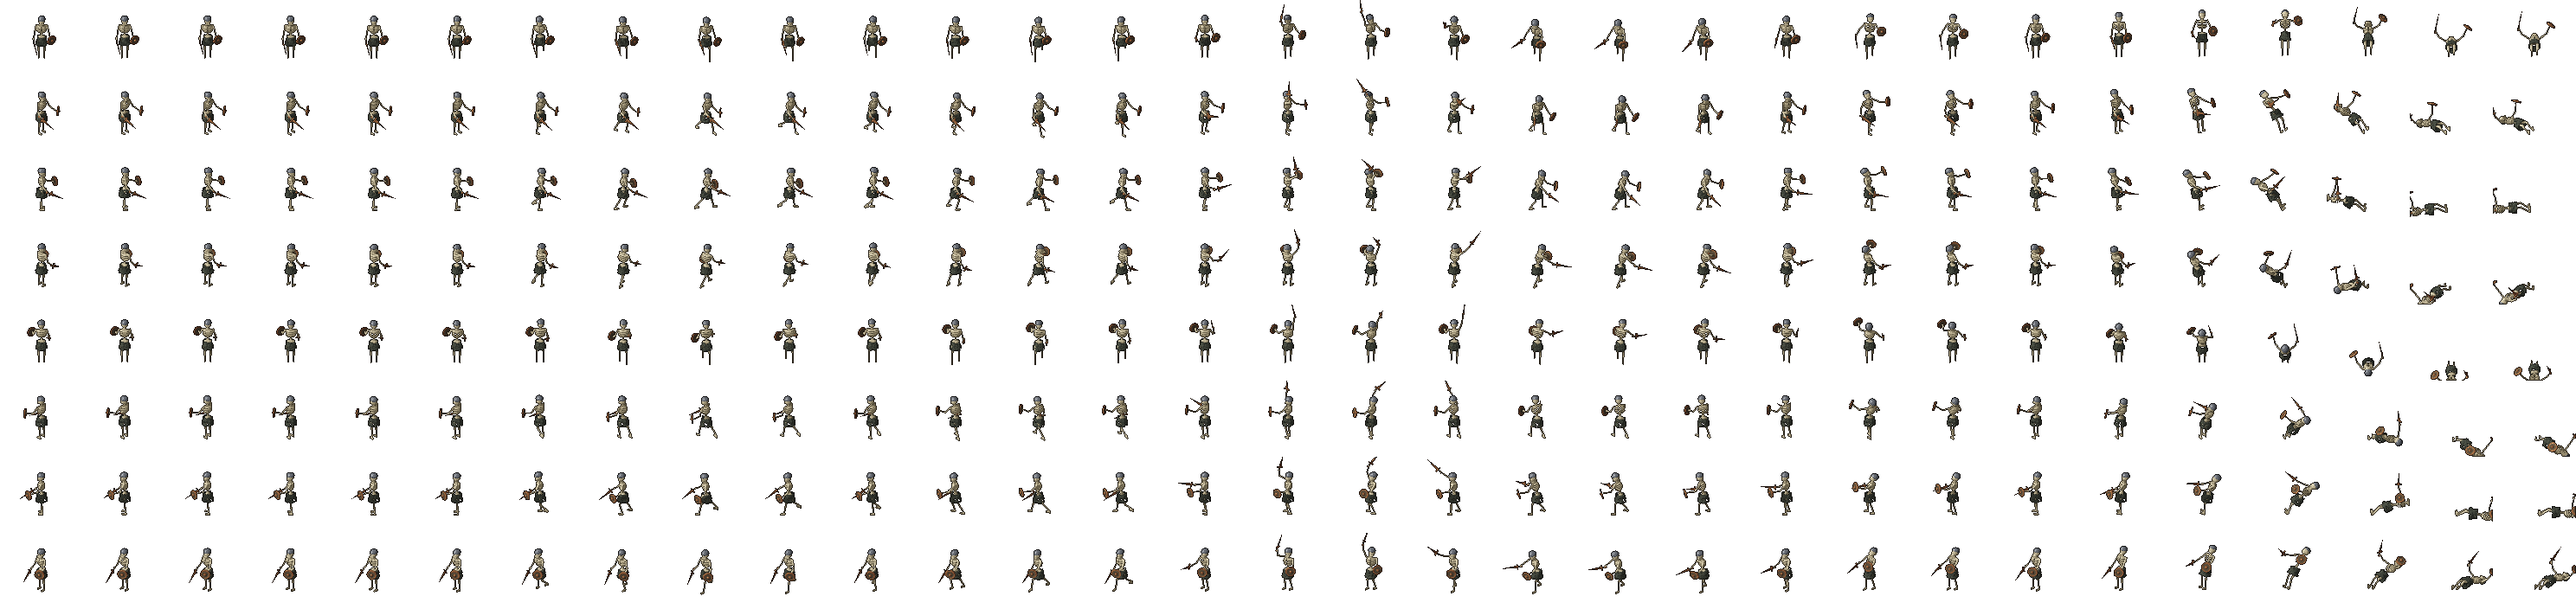
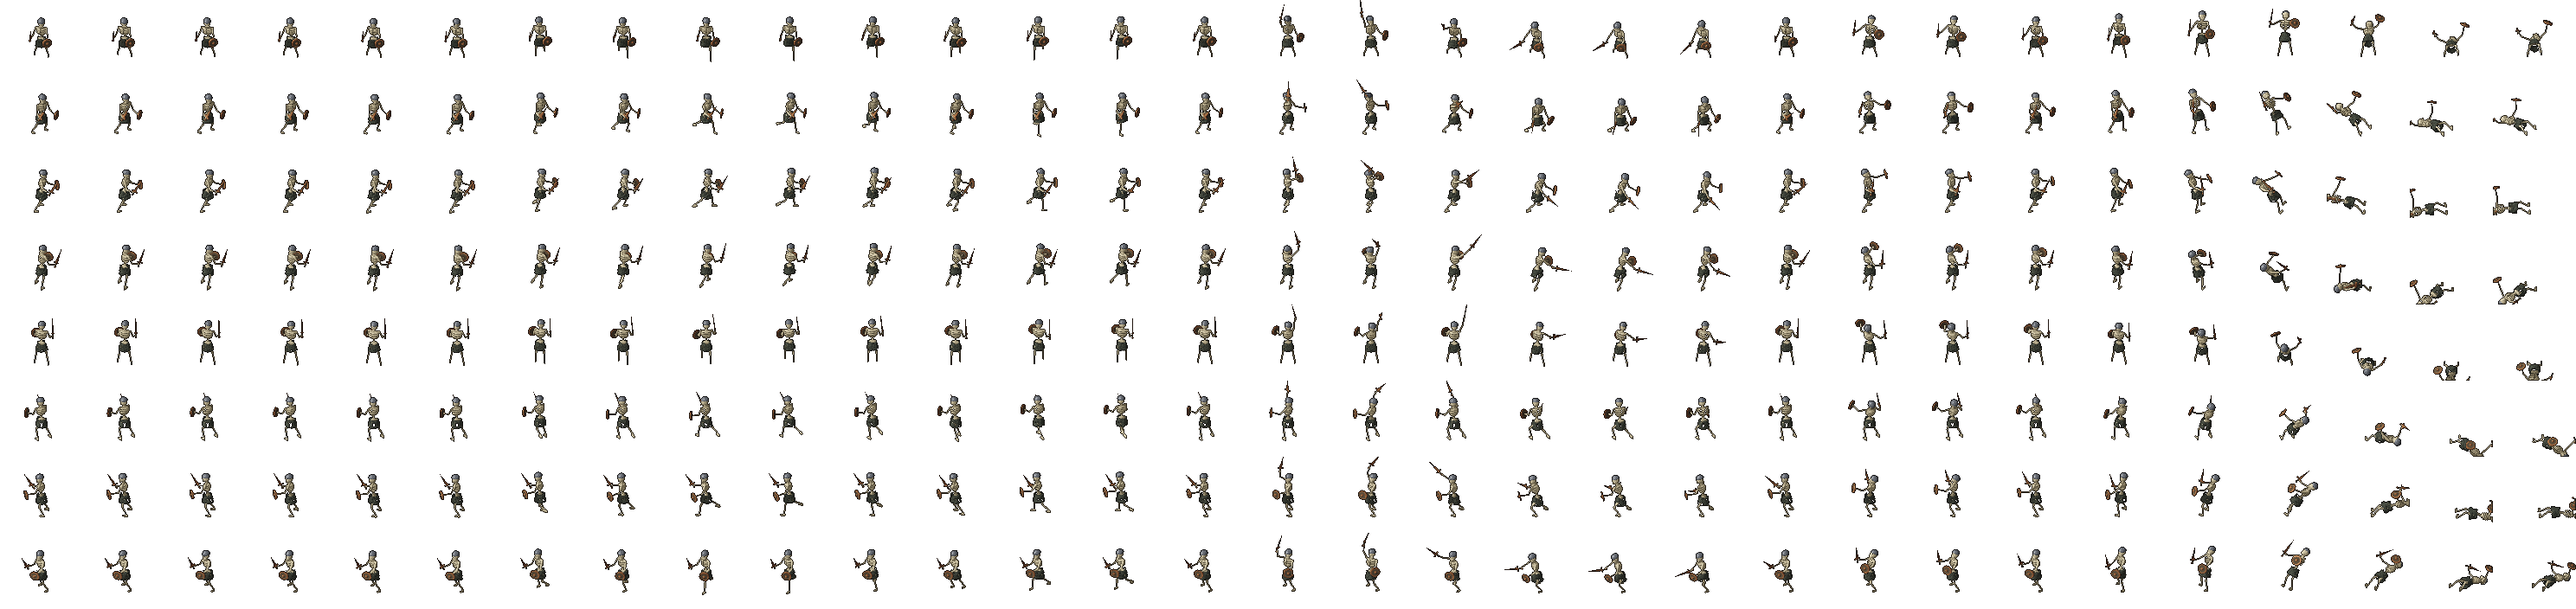
캐릭터 기본 자세를 전투 대기 자세로, 기사 무기를 넓은 외날 기사검으로
- 모든 사람형 동작의 기준 자세: 발을 앞뒤·좌우로 넓게 벌리고 무릎을 굽혀 낮춤, 몸은 비스듬히
- 대기·공격·피격 때 두 발이 모두 땅을 딛도록 무릎 각도 자동 보정
- 검은 위로 비스듬히 겨누고 방패는 몸 앞에 붙임, 공격 시작·끝 프레임을 대기 자세와 연결
- broadsword(): 두꺼운 외날, 비스듬한 칼끝, 홈, 아래로 휜 코등이 (기사·군주)

Claude-Session: https://claude.ai/code/session_01VAPQ8P31TMW6chZELFKhGZ

diff --git a/forgotten-forge/tools/lineage/humanoid.py b/forgotten-forge/tools/lineage/humanoid.py
@@ -25,7 +25,7 @@ class Pose(dict):
         lhip=0.0, rhip=0.0, lknee=4.0, rknee=4.0, lhip_side=0.0, rhip_side=0.0,
         lsh=8.0, rsh=8.0, lab=10.0, rab=10.0, lel=18.0, rel=18.0,
         wpn=70.0, wpn_side=0.0, wpn_roll=0.0, shd=0.0,
-        head=0.0, head_yaw=0.0, cape=0.0, crouch=0.0, glow=0.0, draw=0.0, mouth=0.0,
+        head=0.0, head_yaw=0.0, cape=0.0, crouch=0.0, glow=0.0, draw=0.0, mouth=0.0, plant=0.0,
     )
 
     def __init__(self, **kw):
@@ -59,8 +59,30 @@ class Rig:
             kn = hp + sagittal(a, ab, side) * b['thigh'] * s
             an = kn + sagittal(a - k, ab, side) * b['shin'] * s
             return hp, kn, an
-        self.lhp, self.lkn, self.lan = leg(-1, p.lhip, p.lknee, p.lhip_side)
-        self.rhp, self.rkn, self.ran = leg(1, p.rhip, p.rknee, p.rhip_side)
+        lk, rk = p.lknee, p.rknee
+        if p.plant:
+            # 두 발 모두 땅을 딛도록: 더 길게 뻗은 다리의 무릎을 굽혀 높이를 맞춘다
+            def drop(a, k, ab, side):
+                return leg(side, a, k, ab)[2][2]
+            zl, zr = drop(p.lhip, lk, p.lhip_side, -1), drop(p.rhip, rk, p.rhip_side, 1)
+            if abs(zl - zr) > 0.2:
+                if zl < zr:   # 왼다리가 더 아래로 뻗음 → 왼 무릎을 더 굽힘
+                    a_, ab_, sd, k0, target = p.lhip, p.lhip_side, -1, lk, zr
+                else:
+                    a_, ab_, sd, k0, target = p.rhip, p.rhip_side, 1, rk, zl
+                lo, hi = k0, k0 + 120
+                for _ in range(24):
+                    mid = (lo + hi) / 2
+                    if drop(a_, mid, ab_, sd) < target:
+                        lo = mid
+                    else:
+                        hi = mid
+                if sd < 0:
+                    lk = (lo + hi) / 2
+                else:
+                    rk = (lo + hi) / 2
+        self.lhp, self.lkn, self.lan = leg(-1, p.lhip, lk, p.lhip_side)
+        self.rhp, self.rkn, self.ran = leg(1, p.rhip, rk, p.rhip_side)
         # 접지: 낮은 발목이 z=3s
         minz = min(self.lan[2], self.ran[2]) - 3.0 * s
         off = V(0, 0, -minz + p.bob - p.crouch)
@@ -160,6 +182,35 @@ def sword(r, mats, length=21, width=1.45, guard='gold', grip='leather', blade='s
     it.append(Item(S.box(h + w * 2.1 * s, V(3.6 * s, 0.9 * s, 0.7 * s), M, 0.35), guard))
     it.append(Item(S.capsule(h - w * 2.4 * s, h + w * 1.8 * s, 0.85 * s), grip))
     it.append(Item(S.sphere(h - w * 3.0 * s, 1.15 * s), pommel or guard))
+    return it
+
+
+def broadsword(r, length=17.5, width=2.1, guard='steel_dk', grip='leather', blade='steel', pommel='gold', tag='blade'):
+    """넓은 외날 기사검: 두꺼운 칼날, 등쪽은 곧고 칼끝은 날 쪽에서 비스듬히 잘림, 아래로 휜 큰 코등이."""
+    s = r.s
+    h = r.rha
+    w = r.wdir
+    M = S.frame_from(w, r.right)       # 로컬 z = 칼날 방향
+    ex = M[:, 0]                        # 칼날 폭 방향(날 ↔ 등)
+    base = h + w * 2.6 * s
+    tip = base + w * length * s
+    body = S.box((base + tip) / 2, V(width * s, 0.5 * s, length * s / 2), M, 0.15)
+    # 칼끝: 날 쪽(+ex)에서 등 쪽 끝으로 비스듬히 자름
+    n_cut = S.nrm(w * 1.0 + ex * 0.55)
+    body = S.inter(body, S.halfspace(n_cut, np.dot(n_cut, tip - ex * width * s * 0.9)))
+    it = [Item(body, blade, tag),
+          # 홈(풀러): 칼날 가운데 어두운 줄
+          Item(S.box(base + w * length * s * 0.38 - ex * 0.35 * s, V(0.42 * s, 0.56 * s, length * s * 0.32), M, 0.1), 'steel_dk', tag)]
+    # 코등이: 가운데 블록 + 아래(손 쪽)로 휘는 양 날개
+    gc = h + w * 2.2 * s
+    it.append(Item(S.box(gc, V(1.6 * s, 1.0 * s, 1.0 * s), M, 0.3), guard))
+    for sg in (-1, 1):
+        a = gc + ex * sg * 1.2 * s
+        b = gc + ex * sg * 4.6 * s - w * 1.4 * s
+        it.append(Item(S.capsule(a, b, 0.75 * s, 0.5 * s), guard))
+        it.append(Item(S.sphere(b, 0.75 * s), guard))
+    it.append(Item(S.capsule(h - w * 2.2 * s, h + w * 1.6 * s, 0.9 * s), grip))
+    it.append(Item(S.ellipsoid(h - w * 2.9 * s, V(1.3 * s, 1.0 * s, 1.0 * s), M), pommel))
     return it
 
 
@@ -437,7 +488,7 @@ def _class_knight():
         it.append(Item(S.box(r.chest + r.fwd * 3.9 * r.s - r.up * 3.0 * r.s, V(3.4 * r.s, 0.5 * r.s, 6.0 * r.s), r.rot, 0.3), 'tabard'))
         it.append(Item(S.box(r.chest + r.fwd * 4.4 * r.s - r.up * 1.8 * r.s, V(0.5 * r.s, 0.4 * r.s, 2.4 * r.s), r.rot, 0.1), 'gold'))
         it.append(Item(S.box(r.chest + r.fwd * 4.4 * r.s - r.up * 1.2 * r.s, V(1.8 * r.s, 0.4 * r.s, 0.5 * r.s), r.rot, 0.1), 'gold'))
-        it += sword(r, m, 21, guard='steel_dk', grip='leather', blade='steel', pommel='gold')
+        it += broadsword(r, 17.5, 2.1, guard='steel_dk', grip='leather', blade='steel', pommel='gold')
         it += shield_kite(r, 'tabard', 'steel', 'gold', 1.0, emblem='gold')
     return dict(name='knight', label='기사', mats=m, parts=parts, gear=gear, weapon='sword', build=None, opts=dict(hair=False, eyes=False))
 
@@ -517,7 +568,7 @@ def _class_lord():
         it.append(Item(S.torus(r.neck - r.up * 1.5 * s - r.fwd * 0.5 * s, r.rot, 4.6 * s, 2.1 * s), 'fur'))
         it += skirt(r, 'cape', 5.8, 7.2, 9.5)
         it.append(Item(S.box(r.chest + r.fwd * 4.1 * r.s - r.up * 0.5 * r.s, V(2.3 * r.s, 0.5 * r.s, 2.3 * r.s), r.rot @ S.ry(45), 0.3), 'gold'))
-        it += sword(r, m, 22, guard='gold', grip='cape', blade='steel', pommel='gem')
+        it += broadsword(r, 18.5, 1.9, guard='gold', grip='cape', blade='steel', pommel='gem')
     return dict(name='lord', label='군주', mats=m, parts=parts, gear=gear, weapon='sword', build=dict(scale=1.02),
                 opts=dict(chest=(6.9, 4.3, 5.8)))
 
@@ -565,24 +616,24 @@ def _bend(p):
 
 # 공격 키프레임 (8프레임: 준비 → 예비동작 2 → 휘두름 → 타격 → 멈춤(히트스톱) → 여운 → 복귀)
 ATK_SWORD = [
-    dict(rsh=30, rel=50, wpn=105, wpn_side=-10, lean=0, twist=0, sink=0.3, lhip=0, rhip=0),
+    dict(rsh=26, rel=58, wpn=150, wpn_side=-8, lean=4, twist=6, sink=0.3, lhip=0, rhip=0),
     dict(rsh=115, rel=65, wpn=185, wpn_side=-14, lean=-5, twist=-16, sink=0.8, lhip=-4, rhip=6),
     dict(rsh=158, rel=42, wpn=212, wpn_side=-10, lean=-10, twist=-28, sink=1.1, lhip=-6, rhip=8),
     dict(rsh=118, rel=14, wpn=140, wpn_side=8, lean=4, twist=0, sink=0.6, lhip=14, rhip=-12),
     dict(rsh=66, rel=6, wpn=98, wpn_side=22, lean=14, twist=24, sink=1.6, lhip=22, rhip=-18),
     dict(rsh=60, rel=6, wpn=94, wpn_side=24, lean=15, twist=26, sink=1.7, lhip=22, rhip=-18),
     dict(rsh=34, rel=18, wpn=78, wpn_side=20, lean=11, twist=20, sink=1.3, lhip=18, rhip=-14),
-    dict(rsh=24, rel=40, wpn=92, wpn_side=2, lean=4, twist=6, sink=0.5, lhip=6, rhip=-4),
+    dict(rsh=26, rel=54, wpn=140, wpn_side=-6, lean=5, twist=8, sink=0.4, lhip=4, rhip=-3),
 ]
 ATK_GREAT = [
-    dict(rsh=36, rel=44, wpn=125, wpn_side=-22, lean=2, twist=0, sink=0.4),
+    dict(rsh=34, rel=62, wpn=145, wpn_side=-30, lean=5, twist=8, sink=0.4),
     dict(rsh=120, rel=60, wpn=190, wpn_side=-24, lean=-6, twist=-22, sink=1.0, lhip=-6, rhip=8),
     dict(rsh=165, rel=40, wpn=218, wpn_side=-14, lean=-12, twist=-34, sink=1.4, lhip=-8, rhip=10),
     dict(rsh=125, rel=18, wpn=150, wpn_side=6, lean=6, twist=-4, sink=0.8, lhip=16, rhip=-14),
     dict(rsh=60, rel=8, wpn=92, wpn_side=26, lean=18, twist=26, sink=2.0, lhip=26, rhip=-20),
     dict(rsh=55, rel=8, wpn=88, wpn_side=28, lean=19, twist=28, sink=2.1, lhip=26, rhip=-20),
     dict(rsh=32, rel=20, wpn=78, wpn_side=22, lean=14, twist=22, sink=1.6, lhip=20, rhip=-16),
-    dict(rsh=30, rel=38, wpn=110, wpn_side=-10, lean=5, twist=8, sink=0.6, lhip=6, rhip=-4),
+    dict(rsh=34, rel=60, wpn=140, wpn_side=-28, lean=6, twist=10, sink=0.5, lhip=4, rhip=-3),
 ]
 ATK_BOW = [
     dict(lsh=45, lel=10, rsh=14, rel=30, twist=0, lean=2, draw=0.0, sink=0.3),
@@ -606,46 +657,61 @@ ATK_STAFF = [
 ]
 
 
+# 전투 대기 기준 자세(모든 동작의 출발점): 발을 앞뒤·좌우로 넓게, 무릎 굽혀 낮게, 몸은 비스듬히
+STANCE = {
+    'sword': dict(lhip=14, rhip=-12, lhip_side=11, rhip_side=11, lknee=28, rknee=18, twist=14, head_yaw=-12, lean=6,
+                  rsh=26, rab=16, rel=58, wpn=158, wpn_side=-8, lsh=30, lab=12, lel=52),
+    'great': dict(lhip=16, rhip=-14, lhip_side=12, rhip_side=12, lknee=30, rknee=18, twist=18, head_yaw=-14, lean=8,
+                  rsh=34, rab=20, rel=64, wpn=145, wpn_side=-32, lsh=44, lab=24, lel=74),
+    'bow': dict(lhip=12, rhip=-10, lhip_side=11, rhip_side=11, lknee=24, rknee=14, twist=22, head_yaw=-18, lean=5,
+                lsh=34, lab=14, lel=18, rsh=16, rab=14, rel=40, wpn=40),
+    'staff': dict(lhip=10, rhip=-8, lhip_side=9, rhip_side=9, lknee=22, rknee=12, twist=8, head_yaw=-6, lean=5,
+                  rsh=24, rab=16, rel=48, wpn=172, wpn_side=-6, lsh=22, lab=18, lel=50),
+}
+STANCE['axe'] = STANCE['sword']
+LEG_KEYS = ('lhip', 'rhip', 'lhip_side', 'rhip_side', 'lknee', 'rknee')
+
+
 def pose_for(kind, anim, f, n):
     """kind: 'sword' | 'axe' | 'great' | 'bow' | 'staff'"""
     t = f / n
     ph = 2 * math.pi * t
-    if kind == 'bow':
-        base = dict(lsh=40, lab=6, lel=10, rsh=12, rab=12, rel=30, wpn=40)
-    elif kind == 'staff':
-        base = dict(rsh=26, rel=45, rab=14, wpn=170, wpn_side=-6, lsh=10, lel=25)
-    elif kind == 'great':
-        base = dict(rsh=30, rel=40, rab=18, wpn=125, wpn_side=-22, lsh=26, lel=55, lab=20)
-    else:  # sword / axe
-        base = dict(rsh=14, rel=34, rab=12, wpn=62, wpn_side=-12, lsh=30, lel=46, lab=16)
+    st = dict(STANCE.get(kind, STANCE['sword']))
+    legs = {k: st[k] for k in LEG_KEYS}
+    base = {k: v for k, v in st.items() if k not in LEG_KEYS}
 
     if anim == 'idle':
-        # 들숨(어깨·가슴 올라감)과 날숨, 무게중심이 좌우로 살짝 옮겨감
+        # 낮게 버틴 채 숨쉬기: 들숨에 상체가 오르고 무릎이 펴짐, 날숨에 가라앉음
         b = math.sin(ph)
         c = math.sin(ph - 0.9)
         p = dict(base)
-        p.update(bob=-0.45 + 0.45 * b, lean=2 + 0.8 * b, roll=0.6 * c,
-                 cape=1 + 1.4 * c, head=-1.2 * c, lknee=6 + 2 * c, rknee=4 - 1 * c)
-        p['rsh'] = base['rsh'] + 1.5 * c
+        p.update(legs)
+        p.update(plant=1, bob=-0.5 + 0.5 * b, lean=base['lean'] + 0.8 * b, roll=0.5 * c,
+                 cape=2 + 1.4 * c, head=-1.0 * c)
+        p['lknee'] = legs['lknee'] + 3 * (1 - b)
+        p['rsh'] = base['rsh'] + 2 * c
         p['lsh'] = base['lsh'] + 1.5 * c
+        p['wpn'] = base.get('wpn', 70) + 2 * c
         return Pose(**p)
 
     if anim == 'walk':
-        # 8프레임 보행: 디딤(무릎 약간 굽혀 충격 흡수) → 밀어내기 → 들어올림 → 앞으로 뻗기
+        # 무기를 겨눈 채 낮은 자세로 걷기: 보폭은 넓고, 디딜 때 무릎으로 충격 흡수
         sw = math.sin(ph)
         cw = math.cos(ph)
         lift_l = max(0.0, cw) ** 1.3
         lift_r = max(0.0, -cw) ** 1.3
-        contact = 1 - abs(cw)             # 두 발 디딤 순간
+        contact = 1 - abs(cw)
         p = dict(base)
-        p.update(lhip=28 * sw, rhip=-28 * sw,
-                 lknee=8 + 42 * lift_l + 6 * contact, rknee=8 + 42 * lift_r + 6 * contact,
-                 lean=6, twist=-7 * sw, roll=2.2 * cw, head=1.5 * contact,
-                 cape=9 + 5 * abs(cw), lhip_side=1.5, rhip_side=1.5)
-        if kind != 'bow':
-            p['lsh'] = base['lsh'] + (-18 * sw if kind != 'staff' else -26 * sw)
-        p['rsh'] = base['rsh'] + 15 * sw
-        p['rel'] = base['rel'] + 6 * max(0.0, sw)
+        p.update(lhip=4 + 28 * sw, rhip=-4 - 28 * sw,
+                 lknee=16 + 42 * lift_l + 8 * contact, rknee=16 + 42 * lift_r + 8 * contact,
+                 lhip_side=5, rhip_side=5,
+                 lean=base['lean'] + 1, twist=base['twist'] * 0.5 - 7 * sw, roll=2.2 * cw, head=1.5 * contact,
+                 head_yaw=base.get('head_yaw', 0) * 0.5, cape=9 + 5 * abs(cw))
+        if kind == 'staff':
+            p['lsh'] = base['lsh'] - 22 * sw
+        elif kind != 'bow':
+            p['lsh'] = base['lsh'] - 8 * sw
+        p['rsh'] = base['rsh'] + 10 * sw
         p['bob'] = 0.3 * abs(math.sin(ph))
         return Pose(**p)
 
@@ -653,28 +719,40 @@ def pose_for(kind, anim, f, n):
         keys = {'bow': ATK_BOW, 'staff': ATK_STAFF, 'great': ATK_GREAT}.get(kind, ATK_SWORD)
         k = keyed(keys, f, n)
         p = dict(base)
-        p.update(rab=16, lab=20, shd=1, lknee=10, rknee=8)
+        p.update(rab=16, lab=20, shd=1, plant=1)
         if kind in ('sword', 'axe'):
-            p.update(lsh=40, lel=50)
+            p.update(lsh=34, lel=54, lab=14)
         p.update(k)
+        # 발은 대기 자세처럼 넓게 벌린 채 휘두름(키프레임의 다리 값은 그 위에 더함)
+        p['lhip'] = legs['lhip'] * 0.6 + k.get('lhip', 0)
+        p['rhip'] = legs['rhip'] * 0.6 + k.get('rhip', 0)
+        p['lhip_side'] = legs['lhip_side']
+        p['rhip_side'] = legs['rhip_side']
+        p['lknee'] = legs['lknee']
+        p['rknee'] = legs['rknee']
+        p['twist'] = k.get('twist', 0) + legs['lhip'] * 0.3
         p['cape'] = 6 + 6 * abs(k.get('twist', 0)) / 25 + (6 if f in (3, 4) else 0)
         return Pose(**_bend(p))
 
     if anim == 'hurt':
-        # 맞는 순간 크게 젖혀졌다가 반동으로 돌아옴
         k = [1.0, 0.75, 0.3][f] if n == 3 else (1.0 - f / max(1, n - 1) * 0.7)
         p = dict(base)
-        p.update(lean=-16 * k, head=-16 * k, twist=8 * k, lsh=base['lsh'] + 24 * k, rsh=base['rsh'] - 12 * k,
-                 rab=28 * k + 10, lab=24 * k + 10, lhip=-10 * k, rhip=8 * k, cape=16 * k, sink=0.8 * k)
+        p.update(legs)
+        p.update(plant=1, lean=base['lean'] - 22 * k, head=-16 * k, twist=base['twist'] + 8 * k,
+                 lsh=base['lsh'] + 18 * k, rsh=base['rsh'] - 12 * k,
+                 rab=28 * k + 14, lab=24 * k + 16, cape=16 * k, sink=0.6 * k)
         return Pose(**_bend(p))
 
     if anim == 'death':
         u = f / max(1, n - 1)
         k = min(1.0, u * 1.25)
         p = dict(base)
-        p.update(lean=-6 - 12 * k, head=-22 * k, lknee=10 + 45 * k, rknee=8 + 35 * k, lhip=24 * k, rhip=14 * k,
-                 lsh=base['lsh'] + 50 * k, rsh=base['rsh'] + 60 * k, lab=10 + 40 * k, rab=10 + 45 * k,
-                 lel=20, rel=20, wpn=base['wpn'] + 50 * k, cape=20 + 10 * k)
+        p.update(lean=base['lean'] * (1 - k) - 6 - 12 * k, head=-22 * k,
+                 lhip=legs['lhip'] * (1 - k) + 24 * k, rhip=legs['rhip'] * (1 - k) + 14 * k,
+                 lhip_side=legs['lhip_side'], rhip_side=legs['rhip_side'],
+                 lknee=legs['lknee'] + 30 * k, rknee=legs['rknee'] + 25 * k,
+                 lsh=base['lsh'] + 40 * k, rsh=base['rsh'] + 50 * k, lab=14 + 36 * k, rab=14 + 40 * k,
+                 lel=20, rel=20, wpn=base.get('wpn', 70) + 40 * k, cape=20 + 10 * k)
         return Pose(**p)
     raise ValueError(anim)
 
